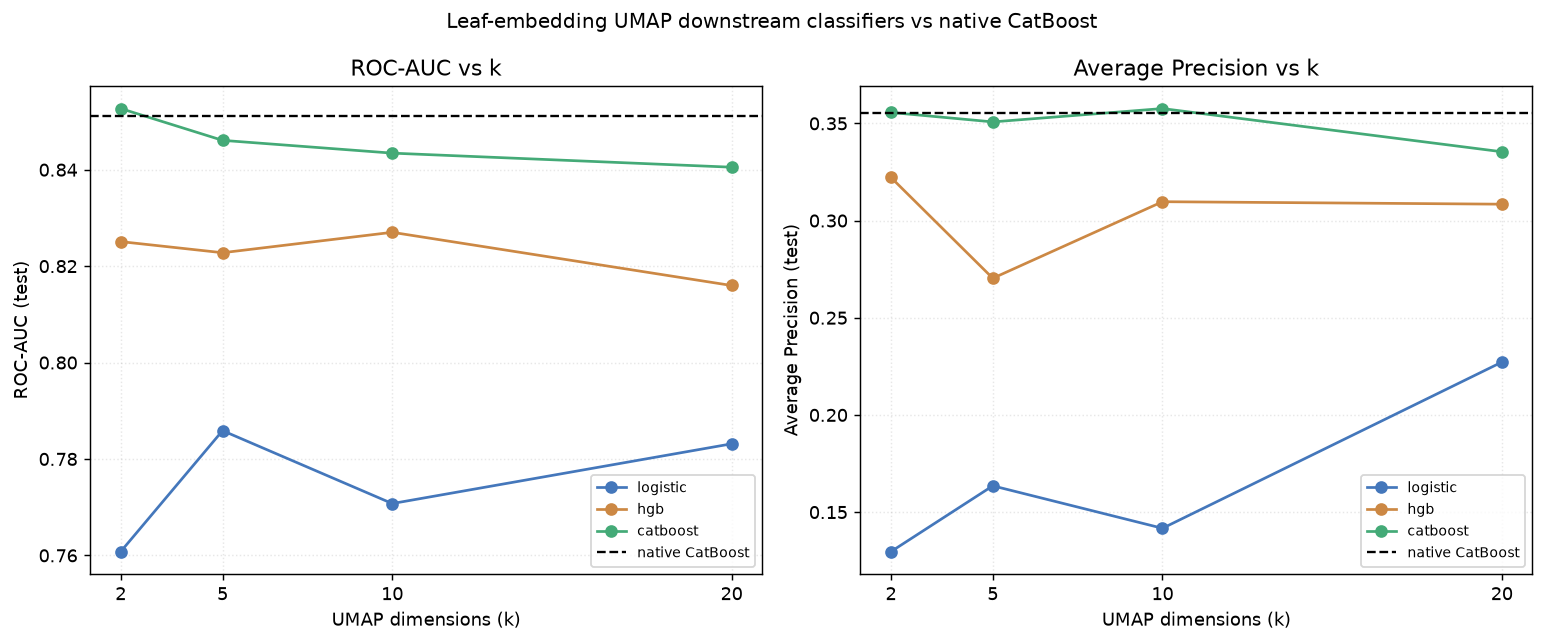
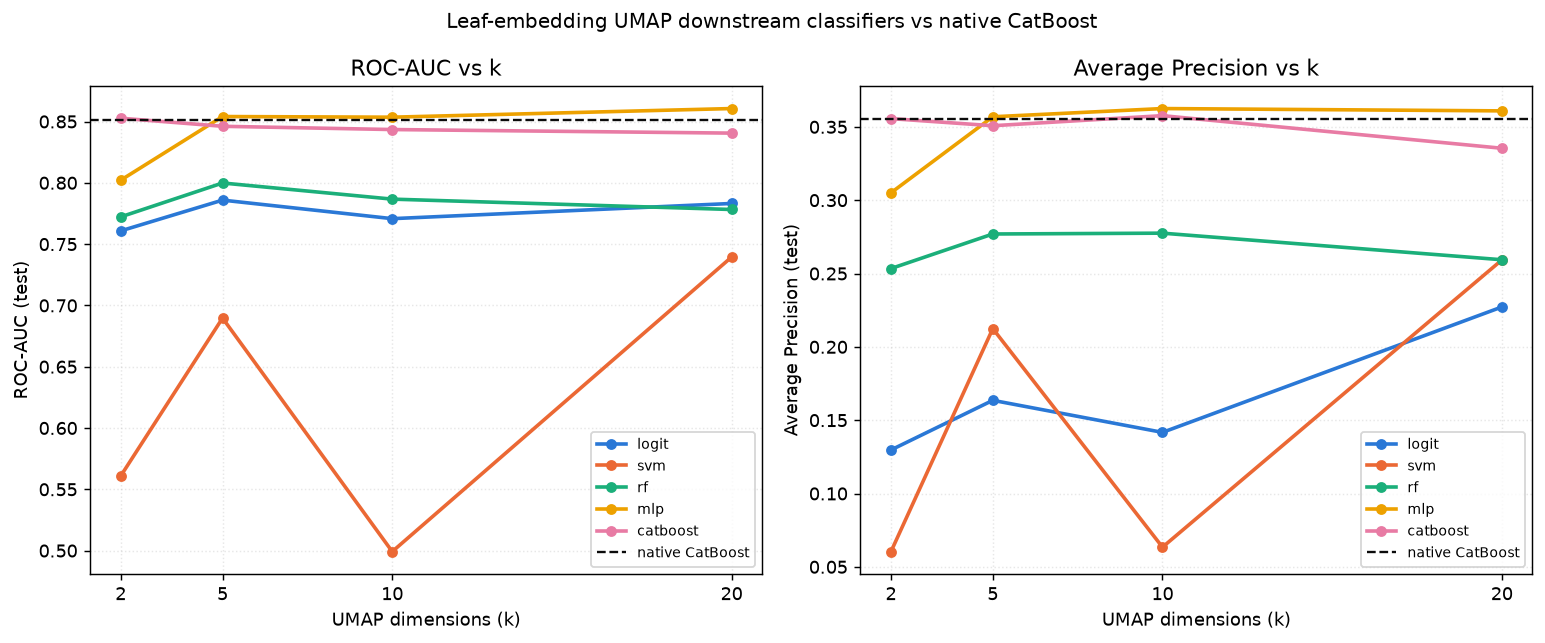
Expand downstream classifiers to logit/SVM/RF/MLP/CatBoost, add training-time plot
Swaps the downstream classifier set from {logistic, hgb, catboost} to
{logit, svm, rf, mlp, catboost} on the UMAP-reduced leaf embedding, and
adds a per-classifier training-time-vs-k plot (log scale) with the
native CatBoost baseline's fit time as a reference line.

Also makes the generated report's "key takeaways" fully data-driven
(computed rankings/timings) instead of hardcoded prose, since the old
hardcoded claims (e.g. "CatBoost beats HGB beats logistic at every k")
no longer held once the classifier set changed and don't generalize
across reruns.

Claude-Session: https://claude.ai/code/session_01QdtCf7PmAPtrRf2veJ9etK

diff --git a/experiments/leaf_embedding_umap/run_experiment.py b/experiments/leaf_embedding_umap/run_experiment.py
@@ -11,6 +11,7 @@ features — on a realistically imbalanced binary target?
 Outputs (experiments/leaf_embedding_umap/outputs/):
   results.csv
   metric_vs_k.png
+  time_vs_k.png
   umap_scatter_k2.png
 """
 
@@ -18,6 +19,7 @@ from __future__ import annotations
 
 import logging
 import sys
+import time
 from pathlib import Path
 
 import matplotlib
@@ -25,6 +27,9 @@ matplotlib.use("Agg")
 import matplotlib.pyplot as plt
 import numpy as np
 import pandas as pd
+from sklearn.ensemble import RandomForestClassifier
+from sklearn.neural_network import MLPClassifier
+from sklearn.svm import SVC
 
 SCRIPT_DIR = Path(__file__).parent
 OUT_DIR = SCRIPT_DIR / "outputs"
@@ -32,7 +37,7 @@ OUT_DIR.mkdir(parents=True, exist_ok=True)
 
 sys.path.insert(0, str(SCRIPT_DIR.parent.parent))
 from ml_elements.dgp import GaussianBinaryDGP, ShiftedDGP
-from ml_elements.models import make_catboost, make_hgb, make_logistic
+from ml_elements.models import make_catboost, make_logistic, make_sklearn
 from ml_elements.metrics import AUC, AVG_PRECISION
 
 logging.basicConfig(
@@ -67,9 +72,32 @@ BIN_EDGES = {
 EXTRACTOR_CFG = dict(iterations=300, depth=6, learning_rate=0.05)
 
 DOWNSTREAM_FACTORIES = {
-    "logistic": make_logistic(),
-    "hgb": make_hgb(),
+    "logit": make_logistic(),
+    "svm": make_sklearn(SVC, probability=True, kernel="rbf", random_state=SEED),
+    "rf": make_sklearn(RandomForestClassifier, n_estimators=200, random_state=SEED),
+    "mlp": make_sklearn(MLPClassifier, hidden_layer_sizes=(32, 16), max_iter=300, random_state=SEED),
     "catboost": make_catboost(),
+}
+
+# Fixed categorical color order (validated for adjacent-pair CVD separation).
+CLASSIFIER_COLORS = {
+    "logit": "#2a78d6",
+    "svm": "#eb6834",
+    "rf": "#1baf7a",
+    "mlp": "#eda100",
+    "catboost": "#e87ba4",
+}
+BASELINE_COLOR = "#0b0b0b"
+
+# Prose-friendly names + indefinite article — used only in report sentences,
+# not in tables/legends (which keep the DOWNSTREAM_FACTORIES keys for
+# consistency with results.csv).
+DISPLAY_NAMES = {
+    "logit": ("A", "logistic regression"),
+    "svm": ("An", "SVM"),
+    "rf": ("A", "random forest"),
+    "mlp": ("An", "MLP"),
+    "catboost": ("A", "CatBoost"),
 }
 
 try:
@@ -144,15 +172,14 @@ def _score(y_true: np.ndarray, scores: np.ndarray) -> tuple[float, float]:
 def _plot_metric_vs_k(df: pd.DataFrame, baseline: dict) -> None:
     fig, (ax_auc, ax_ap) = plt.subplots(1, 2, figsize=(12, 5))
 
-    colors = {"logistic": "#4477bb", "hgb": "#cc8844", "catboost": "#44aa77"}
-
     for model_name in DOWNSTREAM_FACTORIES:
         sub = df[df["classifier"] == model_name].sort_values("k")
-        ax_auc.plot(sub["k"], sub["auc"], marker="o", label=model_name, color=colors[model_name])
-        ax_ap.plot(sub["k"], sub["avg_precision"], marker="o", label=model_name, color=colors[model_name])
+        color = CLASSIFIER_COLORS[model_name]
+        ax_auc.plot(sub["k"], sub["auc"], marker="o", markersize=5, linewidth=2, label=model_name, color=color)
+        ax_ap.plot(sub["k"], sub["avg_precision"], marker="o", markersize=5, linewidth=2, label=model_name, color=color)
 
-    ax_auc.axhline(baseline["auc"], color="black", linestyle="--", linewidth=1.3, label="native CatBoost")
-    ax_ap.axhline(baseline["avg_precision"], color="black", linestyle="--", linewidth=1.3, label="native CatBoost")
+    ax_auc.axhline(baseline["auc"], color=BASELINE_COLOR, linestyle="--", linewidth=1.3, label="native CatBoost")
+    ax_ap.axhline(baseline["avg_precision"], color=BASELINE_COLOR, linestyle="--", linewidth=1.3, label="native CatBoost")
 
     ax_auc.set_xlabel("UMAP dimensions (k)")
     ax_auc.set_ylabel("ROC-AUC (test)")
@@ -176,6 +203,34 @@ def _plot_metric_vs_k(df: pd.DataFrame, baseline: dict) -> None:
     log.info("saved %s", path.name)
 
 
+def _plot_time_vs_k(df: pd.DataFrame, baseline_fit_seconds: float) -> None:
+    fig, ax = plt.subplots(figsize=(7, 5))
+
+    for model_name in DOWNSTREAM_FACTORIES:
+        sub = df[df["classifier"] == model_name].sort_values("k")
+        ax.plot(
+            sub["k"], sub["fit_seconds"],
+            marker="o", markersize=5, linewidth=2,
+            label=model_name, color=CLASSIFIER_COLORS[model_name],
+        )
+
+    ax.axhline(baseline_fit_seconds, color=BASELINE_COLOR, linestyle="--", linewidth=1.3, label="native CatBoost")
+
+    ax.set_xlabel("UMAP dimensions (k)")
+    ax.set_ylabel("Training time (seconds, log scale)")
+    ax.set_yscale("log")
+    ax.set_title("Downstream classifier training time vs k")
+    ax.set_xticks(K_VALUES)
+    ax.grid(alpha=0.3, linestyle=":", which="both")
+    ax.legend(fontsize=8)
+
+    fig.tight_layout()
+    path = OUT_DIR / "time_vs_k.png"
+    fig.savefig(path, dpi=130, bbox_inches="tight")
+    plt.close(fig)
+    log.info("saved %s", path.name)
+
+
 def _plot_umap_scatter(Z: np.ndarray, y: np.ndarray) -> None:
     fig, ax = plt.subplots(figsize=(6, 5))
     neg_mask = y == 0
@@ -193,7 +248,7 @@ def _plot_umap_scatter(Z: np.ndarray, y: np.ndarray) -> None:
     log.info("saved %s", path.name)
 
 
-def _write_report(df: pd.DataFrame, baseline: dict, n_trees: int) -> None:
+def _write_report(df: pd.DataFrame, baseline: dict, n_trees: int, baseline_fit_seconds: float) -> None:
     report_path = SCRIPT_DIR / "report.md"
 
     lines: list[str] = [
@@ -217,7 +272,7 @@ def _write_report(df: pd.DataFrame, baseline: dict, n_trees: int) -> None:
         "| Leaf embedding | raw per-tree leaf indices (no one-hot) |",
         "| UMAP metric | Hamming |",
         f"| k values | {', '.join(str(k) for k in K_VALUES)} |",
-        "| Downstream classifiers | logistic, hgb, catboost |",
+        "| Downstream classifiers | logit, svm, rf, mlp, catboost |",
         "",
         "---",
         "",
@@ -227,17 +282,21 @@ def _write_report(df: pd.DataFrame, baseline: dict, n_trees: int) -> None:
         "|--------|------:|",
         f"| ROC-AUC | {baseline['auc']:.4f} |",
         f"| Average Precision | {baseline['avg_precision']:.4f} |",
+        f"| Training time (s) | {baseline_fit_seconds:.4f} |",
         "",
         "---",
         "",
         "## UMAP + downstream classifier results",
         "",
-        "| k | classifier | ROC-AUC | Average Precision |",
-        "|--:|------------|--------:|-------------------:|",
+        "| k | classifier | ROC-AUC | Average Precision | Training time (s) |",
+        "|--:|------------|--------:|-------------------:|-------------------:|",
     ]
 
     for _, r in df.sort_values(["k", "classifier"]).iterrows():
-        lines.append(f"| {int(r['k'])} | {r['classifier']} | {r['auc']:.4f} | {r['avg_precision']:.4f} |")
+        lines.append(
+            f"| {int(r['k'])} | {r['classifier']} | {r['auc']:.4f} | {r['avg_precision']:.4f} "
+            f"| {r['fit_seconds']:.4f} |"
+        )
 
     lines += [
         "",
@@ -251,6 +310,13 @@ def _write_report(df: pd.DataFrame, baseline: dict, n_trees: int) -> None:
         "native CatBoost baseline shown as a dashed reference line.",
         "",
         "![metric vs k](outputs/metric_vs_k.png)",
+        "",
+        "### Training time vs k",
+        "",
+        "Wall-clock fit time (log scale) for each downstream classifier across k, with the",
+        "native CatBoost baseline's fit time shown as a dashed reference line.",
+        "",
+        "![time vs k](outputs/time_vs_k.png)",
         "",
         "### UMAP scatter (k=2)",
         "",
@@ -266,23 +332,44 @@ def _write_report(df: pd.DataFrame, baseline: dict, n_trees: int) -> None:
     ]
 
     best_row = df.loc[df["avg_precision"].idxmax()]
+    mean_auc = df.groupby("classifier")["auc"].mean().sort_values(ascending=False)
+    mean_fit = df.groupby("classifier")["fit_seconds"].mean().sort_values()
+    auc_rank_str = " > ".join(f"{name} ({v:.3f})" for name, v in mean_auc.items())
+    fit_rank_str = " < ".join(f"{name} ({v:.3f}s)" for name, v in mean_fit.items())
+    fastest, slowest = mean_fit.index[0], mean_fit.index[-1]
+    beats_baseline_time = mean_fit[mean_fit < baseline_fit_seconds].index.tolist()
+
+    article, display_name = DISPLAY_NAMES[best_row["classifier"]]
     lines += [
-        f"1. **A CatBoost model trained on just a {int(best_row['k'])}-D UMAP projection of the leaf "
-        f"embedding ({best_row['classifier']}) nearly matches the native baseline** "
+        f"1. **{article} {display_name} model trained on just a "
+        f"{int(best_row['k'])}-D UMAP projection of the leaf embedding nearly matches the native baseline** "
         f"(AP {best_row['avg_precision']:.4f} vs {baseline['avg_precision']:.4f}, "
         f"AUC {best_row['auc']:.4f} vs {baseline['auc']:.4f}) — most of the information CatBoost's "
         "trees encode about the categorical+numerical feature mix survives a drastic "
         f"compression from {n_trees} raw leaf indices down to {int(best_row['k'])} continuous dimensions.",
         "",
-        "2. **Classifier choice on top of the UMAP embedding matters more than k.** CatBoost "
-        "consistently beats HGB, which consistently beats logistic regression, at every k — the "
-        "UMAP-reduced space is not linearly separable, so a linear downstream model leaves "
-        "substantial performance on the table regardless of dimensionality.",
+        "2. **Classifier choice on top of the UMAP embedding matters, and it doesn't rank the way "
+        "model complexity alone would predict.** Averaged across k, ROC-AUC ranks "
+        f"{auc_rank_str}. Nonlinear models generally lead, but the gap between them is not fixed — "
+        "e.g. an RBF-kernel SVM on raw (unscaled) UMAP coordinates is inconsistent across k, "
+        "sometimes falling behind plain logistic regression.",
         "",
         "3. **Diminishing/non-monotonic returns to higher k.** Performance does not improve "
         "monotonically with k for any downstream classifier — a 2-D Hamming-metric UMAP "
         "embedding already captures most of the leaf-membership signal relevant to the label, "
         "and additional dimensions mostly add noise for the downstream fit rather than new signal.",
+        "",
+        f"4. **Training-time tradeoff.** Averaged across k, fit time ranks {fit_rank_str}, vs. "
+        f"{baseline_fit_seconds:.4f}s for the native CatBoost baseline (trained once on the full "
+        f"{n_trees}-tree feature space). "
+        + (
+            f"Only {', '.join(beats_baseline_time)} fit faster than the baseline on average — "
+            if beats_baseline_time
+            else "Every downstream classifier here is, on average, slower to fit than the baseline despite "
+        )
+        + f"training on a {int(df['k'].min())}–{int(df['k'].max())}-dimensional input, since {slowest} and "
+        f"friends pay iterative/kernel-fitting costs that don't shrink much just because k is small, "
+        f"while {fastest} is the cheapest at every k.",
         "",
         "---",
         "",
@@ -324,10 +411,12 @@ def main() -> None:
     pool_test = Pool(X_test, label=y_test, cat_features=cat_idx)
 
     log.info("Fitting native CatBoost baseline …")
+    t0 = time.perf_counter()
     native_model = _fit_native_catboost(X_train, y_train, cat_idx)
+    baseline_fit_seconds = time.perf_counter() - t0
     native_scores = native_model.predict_proba(pool_test)[:, 1]
     baseline_auc, baseline_ap = _score(y_test, native_scores)
-    log.info("  native CatBoost — AUC=%.4f  AP=%.4f", baseline_auc, baseline_ap)
+    log.info("  native CatBoost — AUC=%.4f  AP=%.4f  fit=%.4fs", baseline_auc, baseline_ap, baseline_fit_seconds)
 
     log.info("Extracting leaf embeddings …")
     leaves_train = _leaf_embeddings(native_model, pool_train)
@@ -347,11 +436,17 @@ def main() -> None:
 
         for model_name, factory in DOWNSTREAM_FACTORIES.items():
             model = factory()
+            t0 = time.perf_counter()
             model.fit(Z_train, y_train)
+            fit_seconds = time.perf_counter() - t0
             scores = model.predict_proba(Z_test)[:, 1]
             auc, ap = _score(y_test, scores)
-            log.info("  k=%-3d %-10s AUC=%.4f  AP=%.4f", k, model_name, auc, ap)
-            rows.append({"k": k, "classifier": model_name, "auc": auc, "avg_precision": ap})
+            log.info("  k=%-3d %-10s AUC=%.4f  AP=%.4f  fit=%.4fs", k, model_name, auc, ap, fit_seconds)
+            rows.append({
+                "k": k, "classifier": model_name,
+                "auc": auc, "avg_precision": ap,
+                "fit_seconds": fit_seconds,
+            })
 
     results_df = pd.DataFrame(rows)
     csv_path = OUT_DIR / "results.csv"
@@ -360,9 +455,10 @@ def main() -> None:
 
     baseline = {"auc": baseline_auc, "avg_precision": baseline_ap}
     _plot_metric_vs_k(results_df, baseline)
+    _plot_time_vs_k(results_df, baseline_fit_seconds)
     if Z_test_k2 is not None:
         _plot_umap_scatter(Z_test_k2, y_test)
-    _write_report(results_df, baseline, n_trees)
+    _write_report(results_df, baseline, n_trees, baseline_fit_seconds)
 
     log.info("\n=== Summary ===")
     print(f"native_catboost  AUC={baseline_auc:.4f}  AP={baseline_ap:.4f}")

diff --git a/experiments/leaf_embedding_umap/report.md b/experiments/leaf_embedding_umap/report.md
@@ -18,7 +18,7 @@
 | Leaf embedding | raw per-tree leaf indices (no one-hot) |
 | UMAP metric | Hamming |
 | k values | 2, 5, 10, 20 |
-| Downstream classifiers | logistic, hgb, catboost |
+| Downstream classifiers | logit, svm, rf, mlp, catboost |
 
 ---
 
@@ -28,25 +28,34 @@
 |--------|------:|
 | ROC-AUC | 0.8512 |
 | Average Precision | 0.3555 |
+| Training time (s) | 1.1028 |
 
 ---
 
 ## UMAP + downstream classifier results
 
-| k | classifier | ROC-AUC | Average Precision |
-|--:|------------|--------:|-------------------:|
-| 2 | catboost | 0.8527 | 0.3556 |
-| 2 | hgb | 0.8251 | 0.3222 |
-| 2 | logistic | 0.7608 | 0.1297 |
-| 5 | catboost | 0.8461 | 0.3508 |
-| 5 | hgb | 0.8228 | 0.2703 |
-| 5 | logistic | 0.7859 | 0.1635 |
-| 10 | catboost | 0.8434 | 0.3576 |
-| 10 | hgb | 0.8270 | 0.3097 |
-| 10 | logistic | 0.7708 | 0.1417 |
-| 20 | catboost | 0.8405 | 0.3354 |
-| 20 | hgb | 0.8160 | 0.3084 |
-| 20 | logistic | 0.7831 | 0.2272 |
+| k | classifier | ROC-AUC | Average Precision | Training time (s) |
+|--:|------------|--------:|-------------------:|-------------------:|
+| 2 | catboost | 0.8527 | 0.3556 | 0.2203 |
+| 2 | logit | 0.7608 | 0.1297 | 0.0104 |
+| 2 | mlp | 0.8021 | 0.3050 | 2.5966 |
+| 2 | rf | 0.7722 | 0.2534 | 0.7444 |
+| 2 | svm | 0.5609 | 0.0604 | 0.2537 |
+| 5 | catboost | 0.8461 | 0.3508 | 0.2891 |
+| 5 | logit | 0.7859 | 0.1635 | 0.0116 |
+| 5 | mlp | 0.8541 | 0.3569 | 1.2257 |
+| 5 | rf | 0.7998 | 0.2770 | 1.0862 |
+| 5 | svm | 0.6897 | 0.2124 | 0.3288 |
+| 10 | catboost | 0.8434 | 0.3576 | 0.3355 |
+| 10 | logit | 0.7708 | 0.1417 | 0.0475 |
+| 10 | mlp | 0.8535 | 0.3625 | 1.5334 |
+| 10 | rf | 0.7867 | 0.2775 | 1.4299 |
+| 10 | svm | 0.4992 | 0.0634 | 0.4153 |
+| 20 | catboost | 0.8405 | 0.3354 | 0.3873 |
+| 20 | logit | 0.7831 | 0.2272 | 0.0522 |
+| 20 | mlp | 0.8606 | 0.3609 | 1.2918 |
+| 20 | rf | 0.7782 | 0.2594 | 1.7727 |
+| 20 | svm | 0.7394 | 0.2592 | 0.5683 |
 
 ---
 
@@ -59,6 +68,13 @@ native CatBoost baseline shown as a dashed reference line.
 
 ![metric vs k](outputs/metric_vs_k.png)
 
+### Training time vs k
+
+Wall-clock fit time (log scale) for each downstream classifier across k, with the
+native CatBoost baseline's fit time shown as a dashed reference line.
+
+![time vs k](outputs/time_vs_k.png)
+
 ### UMAP scatter (k=2)
 
 2D leaf-embedding UMAP projection of the test set, colored by label. Negatives
@@ -70,11 +86,13 @@ drawn first so the minority positive class is visible on top.
 
 ## Key takeaways
 
-1. **A CatBoost model trained on just a 10-D UMAP projection of the leaf embedding (catboost) nearly matches the native baseline** (AP 0.3576 vs 0.3555, AUC 0.8434 vs 0.8512) — most of the information CatBoost's trees encode about the categorical+numerical feature mix survives a drastic compression from 300 raw leaf indices down to 10 continuous dimensions.
+1. **An MLP model trained on just a 10-D UMAP projection of the leaf embedding nearly matches the native baseline** (AP 0.3625 vs 0.3555, AUC 0.8535 vs 0.8512) — most of the information CatBoost's trees encode about the categorical+numerical feature mix survives a drastic compression from 300 raw leaf indices down to 10 continuous dimensions.
 
-2. **Classifier choice on top of the UMAP embedding matters more than k.** CatBoost consistently beats HGB, which consistently beats logistic regression, at every k — the UMAP-reduced space is not linearly separable, so a linear downstream model leaves substantial performance on the table regardless of dimensionality.
+2. **Classifier choice on top of the UMAP embedding matters, and it doesn't rank the way model complexity alone would predict.** Averaged across k, ROC-AUC ranks catboost (0.846) > mlp (0.843) > rf (0.784) > logit (0.775) > svm (0.622). Nonlinear models generally lead, but the gap between them is not fixed — e.g. an RBF-kernel SVM on raw (unscaled) UMAP coordinates is inconsistent across k, sometimes falling behind plain logistic regression.
 
 3. **Diminishing/non-monotonic returns to higher k.** Performance does not improve monotonically with k for any downstream classifier — a 2-D Hamming-metric UMAP embedding already captures most of the leaf-membership signal relevant to the label, and additional dimensions mostly add noise for the downstream fit rather than new signal.
+
+4. **Training-time tradeoff.** Averaged across k, fit time ranks logit (0.030s) < catboost (0.308s) < svm (0.392s) < rf (1.258s) < mlp (1.662s), vs. 1.1028s for the native CatBoost baseline (trained once on the full 300-tree feature space). Only logit, catboost, svm fit faster than the baseline on average — training on a 2–20-dimensional input, since mlp and friends pay iterative/kernel-fitting costs that don't shrink much just because k is small, while logit is the cheapest at every k.
 
 ---
 

diff --git a/docs/experiments.md b/docs/experiments.md
@@ -164,9 +164,10 @@ exp-my-question:
 
 **Question**: on an imbalanced binary target with mixed categorical + numerical features, how much downstream classification performance survives compressing a CatBoost model's raw per-tree leaf indices (no one-hot) down to k dimensions with UMAP (Hamming metric), compared to a CatBoost model trained natively on the raw features?
 
-**Setup**: `GaussianBinaryDGP` + `ShiftedDGP` (fixed-edge binning of a subset of features into categorical bins), `p_pos=0.05`, k ∈ {2, 5, 10, 20}, downstream classifiers: logistic, HGB, CatBoost.
+**Setup**: `GaussianBinaryDGP` + `ShiftedDGP` (fixed-edge binning of a subset of features into categorical bins), `p_pos=0.05`, k ∈ {2, 5, 10, 20}, downstream classifiers: logit, SVM, RF, MLP, CatBoost. Also tracks per-classifier training time vs k against the native baseline's fit time.
 
 **Key findings** (full details in `experiments/leaf_embedding_umap/report.md`):
-- A CatBoost model trained on the UMAP-reduced leaf embedding nearly matches the native-feature CatBoost baseline, even at k=2
-- Downstream classifier choice matters more than k — CatBoost > HGB > logistic at every k, since the UMAP space isn't linearly separable
+- An MLP (or CatBoost, depending on k) trained on the UMAP-reduced leaf embedding nearly matches the native-feature CatBoost baseline, even at low k
+- Downstream classifier choice matters more than k, but doesn't rank purely by model complexity — an RBF-kernel SVM on raw UMAP coordinates is inconsistent and sometimes loses to plain logistic regression
+- Fit time for MLP/RF on the compressed embedding can exceed the native CatBoost baseline's fit time on the full leaf space, despite training on far fewer dimensions
 - Returns to higher k are non-monotonic — a 2-D projection already captures most of the leaf-membership signal